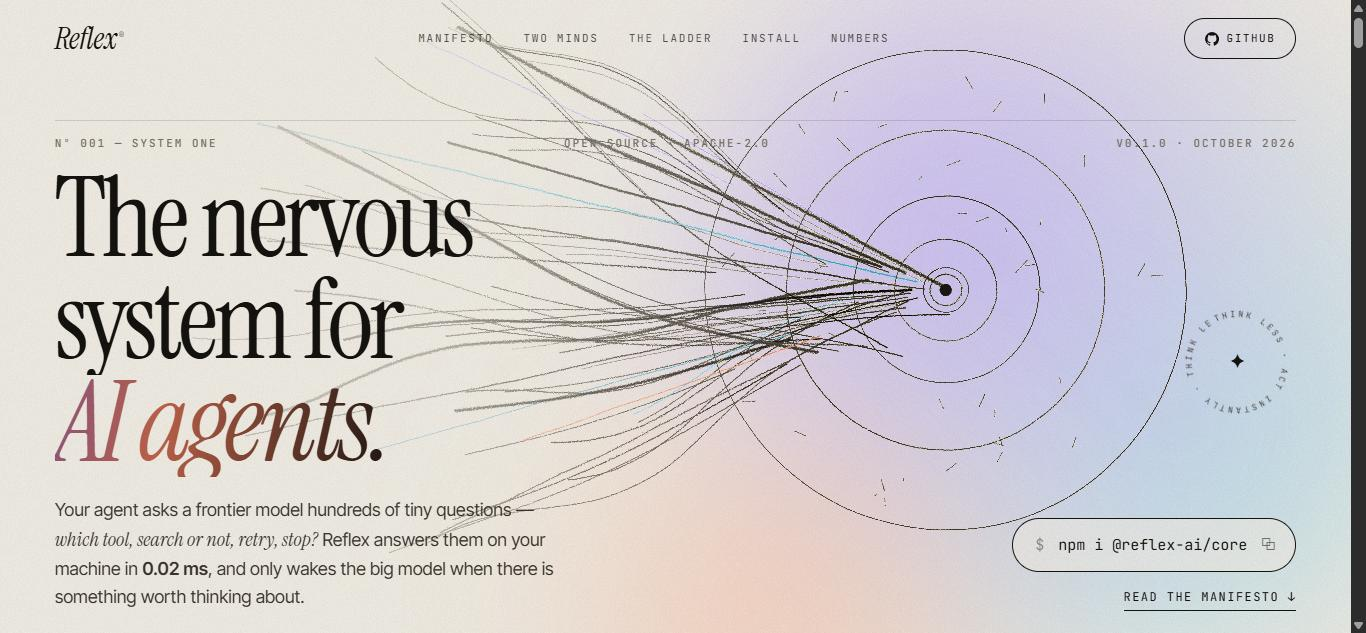
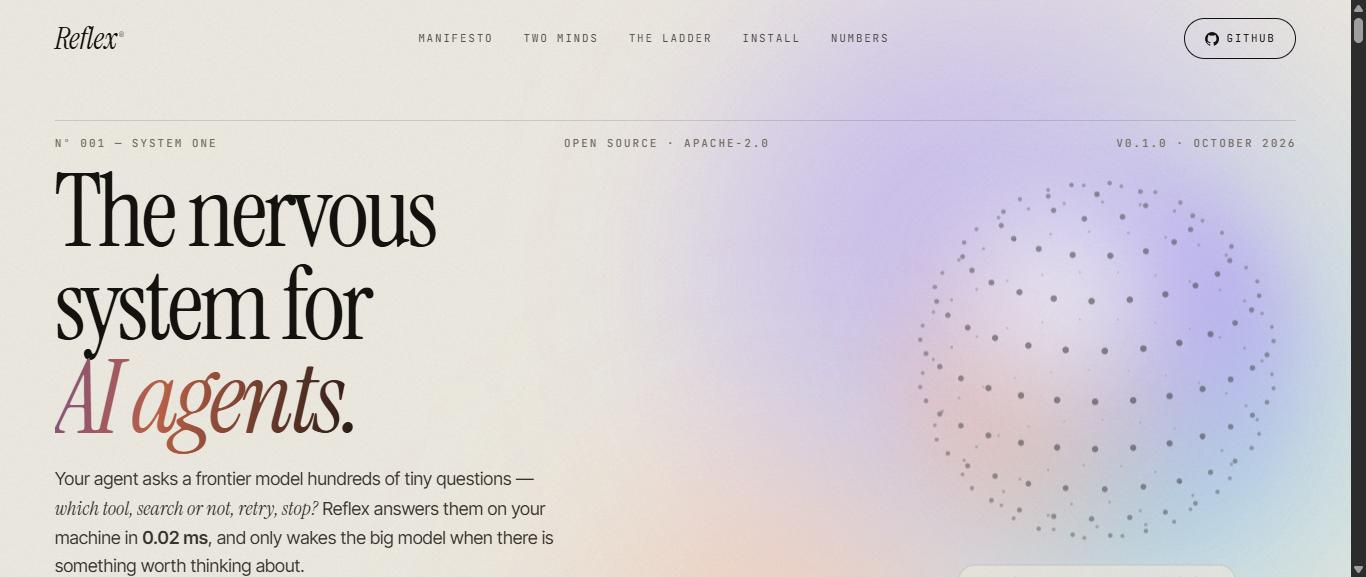
site: replace painted hero with floating thinking-orb, remove rotating stamp, fix clipped descenders, tablet layout

diff --git a/site/styles.css b/site/styles.css
@@ -164,14 +164,59 @@ em { font-family: var(--serif); font-style: italic; font-weight: 400; }
   overflow: hidden;
   isolation: isolate;
 }
-.hero__canvas {
+.hero__visual {
   position: absolute;
-  inset: 0;
   z-index: -1;
-  -webkit-mask-image: linear-gradient(90deg, rgba(0, 0, 0, 0.08) 0%, rgba(0, 0, 0, 0.3) 32%, #000 62%);
-  mask-image: linear-gradient(90deg, rgba(0, 0, 0, 0.08) 0%, rgba(0, 0, 0, 0.3) 32%, #000 62%);
+  right: clamp(-60px, 0vw, 40px);
+  top: 50%;
+  width: min(54vw, 88vh, 780px);
+  aspect-ratio: 1;
+  transform: translateY(-46%);
+  display: grid;
+  place-items: center;
+  animation: float 9s ease-in-out infinite;
 }
-.hero__canvas canvas { display: block; width: 100% !important; height: 100% !important; }
+.hero__visual canvas { position: relative; display: block; opacity: 0; animation: fade 2.2s 0.35s var(--ease) forwards; }
+.hero__halo {
+  position: absolute;
+  inset: 10%;
+  border-radius: 50%;
+  background:
+    radial-gradient(circle at 38% 36%, rgba(255, 255, 255, 0.9), transparent 38%),
+    radial-gradient(circle at 30% 70%, color-mix(in srgb, var(--peach) 70%, transparent), transparent 55%),
+    radial-gradient(circle at 72% 30%, color-mix(in srgb, var(--lilac) 85%, transparent), transparent 60%),
+    radial-gradient(circle at 70% 78%, color-mix(in srgb, var(--ice) 85%, transparent), transparent 58%);
+  filter: blur(34px);
+  opacity: 0.85;
+  animation: halo 14s ease-in-out infinite alternate;
+}
+.hero__readout {
+  position: absolute;
+  bottom: 3%;
+  left: 50%;
+  transform: translateX(-50%);
+  margin: 0;
+  display: inline-flex;
+  align-items: center;
+  gap: 10px;
+  padding: 8px 14px;
+  border-radius: 999px;
+  border: 1px solid var(--hair);
+  background: color-mix(in srgb, var(--paper) 70%, transparent);
+  backdrop-filter: blur(8px);
+  font-family: var(--mono);
+  font-size: 11px;
+  letter-spacing: 0.08em;
+  color: var(--ink-2);
+  white-space: nowrap;
+  font-variant-ligatures: none;
+}
+.hero__readout [data-readout] { transition: opacity 0.35s, filter 0.35s; }
+.hero__readout [data-readout].is-swapping { opacity: 0; filter: blur(3px); }
+.hero__pulse { width: 7px; height: 7px; border-radius: 50%; background: #3f9b6e; box-shadow: 0 0 0 0 rgba(63, 155, 110, 0.5); animation: pulse 1.6s infinite; }
+@keyframes float { 0%, 100% { transform: translateY(-46%); } 50% { transform: translateY(-49%); } }
+@keyframes halo { from { transform: rotate(0deg) scale(1); } to { transform: rotate(40deg) scale(1.08); } }
+@keyframes pulse { 70% { box-shadow: 0 0 0 9px rgba(63, 155, 110, 0); } 100% { box-shadow: 0 0 0 0 rgba(63, 155, 110, 0); } }
 
 .aura {
   position: absolute;
@@ -220,7 +265,7 @@ em { font-family: var(--serif); font-style: italic; font-weight: 400; }
   line-height: 0.86;
   letter-spacing: -0.035em;
 }
-.hero__title .line { display: block; overflow: hidden; padding-bottom: 0.06em; }
+.hero__title .line { display: block; overflow: hidden; padding-bottom: 0.2em; margin-bottom: -0.14em; }
 .hero__title .line > span {
   display: inline-block;
   transform: translateY(105%);
@@ -235,7 +280,7 @@ em { font-family: var(--serif); font-style: italic; font-weight: 400; }
   background-clip: text;
   color: transparent;
   animation: sheen 9s ease-in-out infinite;
-  padding-right: 0.08em;
+  padding: 0 0.08em 0.16em 0;
 }
 @keyframes rise { to { transform: translateY(0); } }
 @keyframes sheen {
@@ -245,16 +290,15 @@ em { font-family: var(--serif); font-style: italic; font-weight: 400; }
 
 .hero__foot {
   display: grid;
-  grid-template-columns: minmax(0, 520px) auto;
-  justify-content: space-between;
-  align-items: end;
-  gap: 32px;
+  grid-template-columns: minmax(0, 560px);
+  align-items: start;
+  gap: 28px;
   opacity: 0;
   animation: fade 1.2s 0.7s var(--ease) forwards;
 }
 .hero__lede { margin: 0; font-size: 18px; color: var(--ink-2); max-width: 520px; }
 .hero__lede i { font-family: var(--serif); font-size: 1.12em; }
-.hero__cta { display: flex; flex-direction: column; align-items: flex-end; gap: 16px; }
+.hero__cta { display: flex; align-items: center; gap: 28px; flex-wrap: wrap; }
 @keyframes fade { to { opacity: 1; } }
 
 .install {
@@ -289,22 +333,6 @@ em { font-family: var(--serif); font-style: italic; font-weight: 400; }
 }
 .link-arrow span { display: inline-block; transition: transform 0.35s var(--ease); }
 .link-arrow:hover span { transform: translate(3px, 2px); }
-
-.hero__stamp {
-  position: absolute;
-  right: var(--gutter);
-  top: 46%;
-  width: 118px;
-  height: 118px;
-  display: grid;
-  place-items: center;
-  opacity: 0;
-  animation: fade 1s 1.1s forwards;
-}
-.hero__stamp svg { position: absolute; inset: 0; animation: spin 26s linear infinite; }
-.hero__stamp text { font-family: var(--mono); font-size: 8.4px; letter-spacing: 0.32em; fill: var(--ink-2); }
-.hero__stamp span { font-size: 20px; color: var(--ink); }
-@keyframes spin { to { transform: rotate(360deg); } }
 
 /* ─────────── Ticker ─────────── */
 .ticker {
@@ -483,7 +511,7 @@ em { font-family: var(--serif); font-style: italic; font-weight: 400; }
 
 /* ─────────── Learning ─────────── */
 .learn { background: var(--paper-2); }
-.steps { display: grid; grid-template-columns: repeat(3, 1fr); gap: clamp(20px, 3vw, 44px); margin-top: 64px; }
+.steps { display: grid; grid-template-columns: repeat(3, minmax(0, 1fr)); gap: clamp(20px, 3vw, 44px); margin-top: 64px; }
 .step { display: flex; flex-direction: column; gap: 14px; padding-top: 22px; border-top: 1px solid var(--ink); }
 .step__n { font-family: var(--mono); font-size: 12px; letter-spacing: 0.16em; color: var(--muted); }
 .step h3 { margin: 0; font-family: var(--serif); font-weight: 400; font-size: clamp(40px, 4vw, 60px); line-height: 1; }
@@ -697,6 +725,9 @@ a.badge:hover { border-color: var(--ink); color: var(--ink); }
 /* ─────────── Responsive ─────────── */
 @media (max-width: 1080px) {
   .nav { display: none; }
+  .steps { grid-template-columns: 1fr; }
+  .hero__visual { width: min(64vw, 520px); right: -10vw; top: 110px; transform: none; opacity: 0.6; animation: none; }
+  .hero__readout { display: none; }
   .code { grid-template-columns: 1fr; }
   .facts, .big-stats { grid-template-columns: 1fr 1fr; }
   .facts > div:nth-child(2), .big-stats > div:nth-child(2) { border-right: 0; }
@@ -706,14 +737,8 @@ a.badge:hover { border-color: var(--ink); color: var(--ink); }
 @media (max-width: 760px) {
   body { font-size: 16px; }
   .hero { padding-top: 96px; }
-  .hero__canvas {
-    opacity: 0.55;
-    -webkit-mask-image: linear-gradient(180deg, #000 0%, #000 38%, transparent 62%);
-    mask-image: linear-gradient(180deg, #000 0%, #000 38%, transparent 62%);
-  }
-  .hero__foot { grid-template-columns: 1fr; }
-  .hero__cta { align-items: flex-start; }
-  .hero__stamp { display: none; }
+  .hero__visual { width: 78vw; right: -18vw; top: 96px; opacity: 0.55; }
+  .hero__cta { gap: 18px; }
   .hero__meta span:nth-child(2) { display: none; }
   .manifesto__cols, .minds__grid, .steps, .vows, .panel { grid-template-columns: 1fr; }
   .manifesto__quote { text-indent: 0; }
@@ -730,5 +755,5 @@ a.badge:hover { border-color: var(--ink); color: var(--ink); }
   *, *::before, *::after { animation-duration: 0.001ms !important; animation-iteration-count: 1 !important; transition-duration: 0.001ms !important; }
   .reveal { opacity: 1; transform: none; }
   .hero__title .line > span { transform: none; }
-  .hero__foot, .hero__stamp { opacity: 1; }
+  .hero__foot, .hero__visual canvas { opacity: 1; }
 }

diff --git a/site/index.html b/site/index.html
@@ -39,7 +39,11 @@
   <main id="top">
     <!-- ─────────────────────────── Hero ─────────────────────────── -->
     <section class="hero" aria-labelledby="hero-title">
-      <div id="hero-canvas" class="hero__canvas" aria-hidden="true"></div>
+      <div class="hero__visual" aria-hidden="true">
+        <div class="hero__halo"></div>
+        <canvas data-orb="searching" data-orb-fill></canvas>
+        <p class="hero__readout"><span class="hero__pulse"></span><span data-readout>AUTO · read_file · 0.021 ms</span></p>
+      </div>
       <div class="aura aura--a" aria-hidden="true"></div>
       <div class="aura aura--b" aria-hidden="true"></div>
 
@@ -71,11 +75,6 @@
         </div>
       </div>
 
-      <div class="hero__stamp" aria-hidden="true">
-        <svg viewBox="0 0 120 120"><defs><path id="circ" d="M60,60 m-46,0 a46,46 0 1,1 92,0 a46,46 0 1,1 -92,0"/></defs>
-          <text><textPath href="#circ">THINK LESS · ACT INSTANTLY · THINK LESS · ACT INSTANTLY · </textPath></text></svg>
-        <span>✦</span>
-      </div>
     </section>
 
     <!-- ─────────────────────────── Ticker ─────────────────────────── -->
@@ -391,15 +390,12 @@ args = [<span class="s">"-y"</span>, <span class="s">"@reflex-ai/cli"</span>, <s
       <div><span class="label">Project</span><a href="https://github.com/1sakshm/reflex" target="_blank" rel="noopener">GitHub</a><a href="https://github.com/1sakshm/reflex/blob/main/PRD.md" target="_blank" rel="noopener">Product spec</a><a href="https://github.com/1sakshm/reflex/blob/main/CHANGELOG.md" target="_blank" rel="noopener">Changelog</a></div>
       <div><span class="label">Docs</span><a href="https://github.com/1sakshm/reflex/blob/main/docs/getting-started.md" target="_blank" rel="noopener">Getting started</a><a href="https://github.com/1sakshm/reflex/blob/main/docs/concepts.md" target="_blank" rel="noopener">Concepts</a><a href="https://github.com/1sakshm/reflex/blob/main/docs/integrations.md" target="_blank" rel="noopener">Integrations</a></div>
       <div><span class="label">Packages</span><a href="https://www.npmjs.com/package/@reflex-ai/core" target="_blank" rel="noopener">npm</a><a href="https://pypi.org/project/reflex-agent-client/" target="_blank" rel="noopener">PyPI</a><a href="https://github.com/1sakshm/reflex/releases" target="_blank" rel="noopener">Releases</a></div>
-      <div class="footer__fine"><span class="label">Colophon</span><p>Set in Instrument Serif, Inter Tight &amp; JetBrains Mono. Painted live with p5.brush. Orbs by thinking-orbs. Apache-2.0 · © 2026 Saksham Sharma.</p></div>
+      <div class="footer__fine"><span class="label">Colophon</span><p>Set in Instrument Serif, Inter Tight &amp; JetBrains Mono. Orbs by thinking-orbs. Apache-2.0 · © 2026 Saksham Sharma.</p></div>
     </div>
   </footer>
 
   <div class="toast" role="status" aria-live="polite"></div>
 
-  <script src="https://cdn.jsdelivr.net/npm/p5@2.2/lib/p5.min.js" defer></script>
-  <script src="https://cdn.jsdelivr.net/npm/p5.brush@2.2.2/dist/p5.brush.js" defer></script>
-  <script src="js/hero.js" defer></script>
   <script type="module" src="js/orbs.js"></script>
   <script src="js/main.js" defer></script>
 </body>

diff --git a/site/js/orbs.js b/site/js/orbs.js
@@ -6,9 +6,12 @@ const reduce = window.matchMedia("(prefers-reduced-motion: reduce)").matches;
 const dpr = Math.min(2, window.devicePixelRatio || 1);
 const orbs = [];
 
+/** Hero orbs (`data-orb-fill`) take the size of their container; others use data-orb-size. */
+const fillSize = (canvas) => Math.max(120, Math.floor(Math.min(canvas.parentElement.clientWidth, canvas.parentElement.clientHeight) * 0.86));
+
 for (const canvas of document.querySelectorAll("canvas[data-orb]")) {
   const state = canvas.dataset.orb;
-  const cssSize = Number(canvas.dataset.orbSize || 64);
+  const cssSize = "orbFill" in canvas.dataset ? fillSize(canvas) : Number(canvas.dataset.orbSize || 64);
   // Presets exist for 20 and 64; the big orbs use the detailed 64 profile, drawn larger.
   const { mode, speed, opts } = resolvePreset(state, cssSize <= 32 ? 20 : 64);
   const draw = MODE_DRAWS[mode];
@@ -21,6 +24,22 @@ for (const canvas of document.querySelectorAll("canvas[data-orb]")) {
   const dark = !!canvas.closest(".section--dark, .closing");
   orbs.push({ canvas, ctx, draw, speed, opts, cssSize, dark, visible: false, offset: Math.random() * 10 });
 }
+
+// Keep fill-sized orbs matched to their container.
+let resizeTimer;
+window.addEventListener("resize", () => {
+  clearTimeout(resizeTimer);
+  resizeTimer = setTimeout(() => {
+    for (const orb of orbs) {
+      if (!("orbFill" in orb.canvas.dataset)) continue;
+      orb.cssSize = fillSize(orb.canvas);
+      orb.canvas.width = orb.cssSize * dpr;
+      orb.canvas.height = orb.cssSize * dpr;
+      orb.canvas.style.width = orb.cssSize + "px";
+      orb.canvas.style.height = orb.cssSize + "px";
+    }
+  }, 150);
+});
 
 const io = new IntersectionObserver(
   (entries) => {

diff --git a/site/js/main.js b/site/js/main.js
@@ -75,6 +75,29 @@
     });
   });
 
+  // Hero readout: a quiet stream of the kinds of decisions Reflex makes.
+  const readout = document.querySelector("[data-readout]");
+  const lines = [
+    "AUTO · read_file · 0.021 ms",
+    "AUTO · retry_backoff · 0.018 ms",
+    "ESCALATE · needs reasoning",
+    "AUTO · run_tests · 0.034 ms",
+    "RISK · deploy · never auto-run",
+    "AUTO · use_cache · 0.012 ms",
+    "AUTO · stop · tests passed",
+  ];
+  if (readout && !window.matchMedia("(prefers-reduced-motion: reduce)").matches) {
+    let i = 0;
+    setInterval(() => {
+      readout.classList.add("is-swapping");
+      setTimeout(() => {
+        i = (i + 1) % lines.length;
+        readout.textContent = lines[i];
+        readout.classList.remove("is-swapping");
+      }, 350);
+    }, 2200);
+  }
+
   // Count-up for the big race number.
   const fmt = new Intl.NumberFormat("en-US");
   const counter = new IntersectionObserver(
